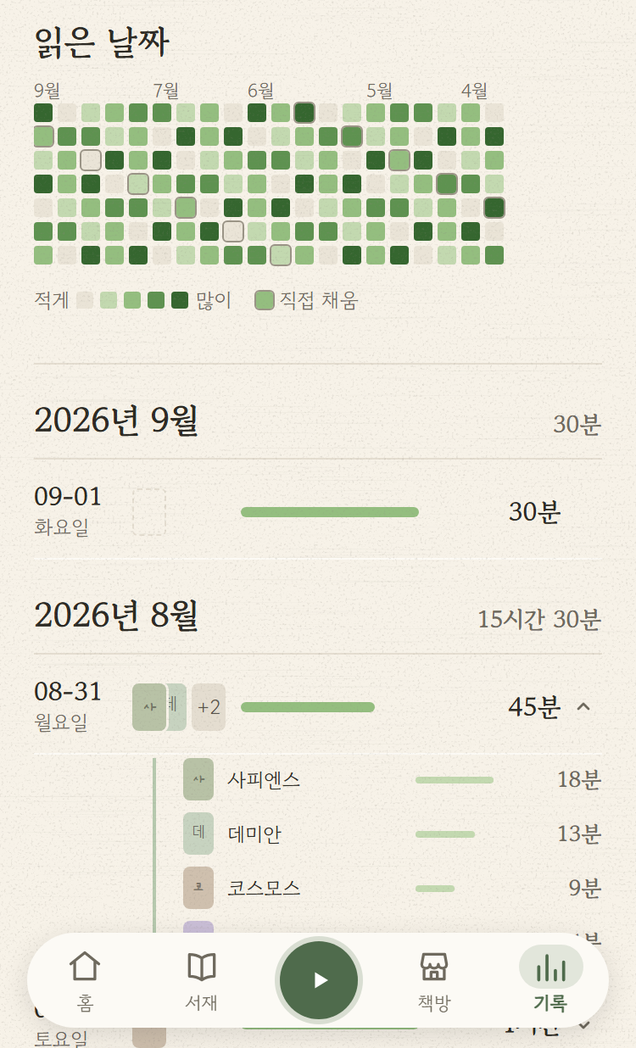
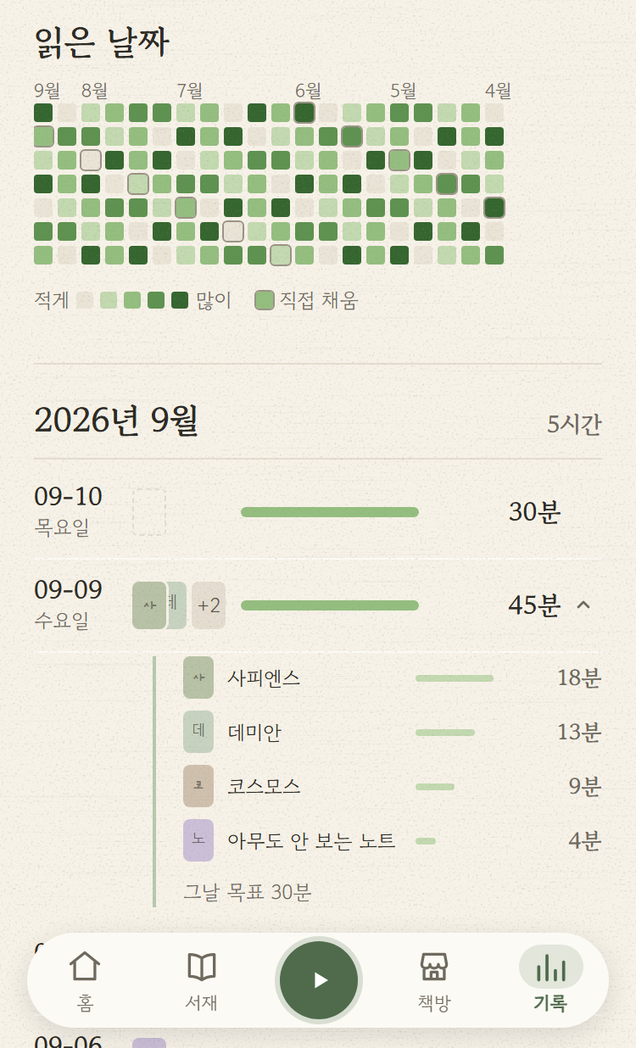
docs(미니앱): 스토어 스크린샷 재촬영 — 04(+10)만, 기록 막대 「그날 목표」 기준 반영 (#1081)
#1080으로 기록의 하루 막대 기준이 「그 달 최대」→「그날 목표」가 됐고 펼침 영역
맨 아래에 「그날 목표 30분」 줄이 섰다. 펼친 첫 날을 담는 04와 그걸 얹은 10만 갱신.
08도 diff가 났지만 달력의 오늘 기준 이동뿐이라 되돌렸다. 나머지 6장은 바이트째 동일.

번들 20260910-145(01a088cc) 검수 요청과 같은 날의 점검 결과다.

Session-Model: claude-fable-5-1

diff --git a/claude-docs/changelog.md b/claude-docs/changelog.md
@@ -921,3 +921,4 @@
 | 2026-09-09 | **feat(공부): 백지복습 본문을 노션식 편집기로 — Tiptap 3 도입, 저장은 마크다운** — `textarea` 하나였던 본문을 WYSIWYG 편집기로 바꿨다(사용자 결정: 툴바 **와** 슬래시 메뉴 둘 다 · Tab 들여쓰기 필수 · 마크다운 문법을 배우지 않아도 되게). 저장 형식은 **마크다운 문자열**이라 서버·DB·미니앱·AI 프롬프트가 전부 무변경이고, 되돌리려면 컴포넌트만 textarea로 되돌리면 된다. 📌 **옛 평문 글이 이 작업의 진짜 위험이었다** — 파서에 `breaks: true`가 없으면 줄바꿈 하나로 갈라 둔 옛 글이 열 때 통째로 한 문단이 된다(변환 스크립트 대신 파서 옵션 한 줄로 끝났다). 로컬 실측: 평문 「줄1 / 줄2 / 빈 줄 / 문단2」를 API로 심어 두고 열었더니 `<p>줄1<br>줄2</p><p>문단2</p>`로 3줄이 살았고, 저장을 안 누르면 서버 값도 그대로였다. ⚠ **직렬화가 저장값에 남기던 것 둘을 경계에서 턴다**(`cleanMarkdown` 한 함수가 그 자리다) — ⓐ `trailingNode`가 목록·구분선 뒤에 붙이는 빈 문단이 `&nbsp;` 한 줄로 나와 `trimEnd`로는 하나도 안 털렸다(그 줄을 지우고 연속 빈 줄을 하나로 접는다) ⓑ 글자로 친 `>`·`&`가 `&gt;`·`&amp;`로 이스케이프돼 DB·AI 프롬프트·8000자 예산에 그대로 실렸다(실측 `a > b` → `a &gt; b`, `AT&T` → `AT&amp;T`). 되돌리기는 **뜻이 안 바뀌는 것만**이다 — 줄 시작의 `&gt;`는 남기고(되돌리면 다음에 열 때 인용 블록으로 승격된다), `&lt;`는 손대지 않으며(`a <b> c`가 인라인 HTML로 먹힌다), `&amp;`는 마지막에 푼다(사용자가 글자로 친 `&amp;gt;`가 `>`까지 가지 않게). 밖으로 내보내는 길과 비교하는 길이 **같은 함수**를 써야 한다 — 한쪽만 다듬으면 매 입력마다 문서를 갈아치워 커서가 튄다. `maxlength`가 사라지므로 8000자 상한은 화면(`bodyBudget`)+서버 400 두 겹으로 다시 세웠고, 줄노트 배경은 걷었다(제목·목록이 들어오면서 28px 격자와 글줄이 어긋난다). 📍 **슬래시 팝업 좌표는 실 브라우저가 아니면 못 잡을 자리였다** — 하니스(jsdom)에는 레이아웃이 없어 늘 초록이지만, 로컬에서 캐럿을 화면 아래쪽에 두고 열어 보니 팝업이 **화면 밖으로 82px** 나갔다(좌표를 잰 상자와 먹는 상자가 달라 툴바 높이만큼 밀리기도 했다). 뷰포트 기준으로 계산해 아래가 모자라면 위로 뒤집는 `slashPosition`(+ CSS `position: fixed`)으로 고치고 데스크톱 1280×800·폰 375×812 양쪽에서 재측정했다. RED → GREEN, 새 테스트 49건(pure 27 · 편집기 19 · 패널 2 · 프롬프트 1) · 프론트 전체 **646건** · 돌연변이 7종(`breaks` 끄기 · 상한 경계 넓히기 · 목록 밖 Tab 무력화 · 프롬프트에서 마크다운 문법 벗기기 · 줄 시작 `&gt;` 보호 제거 · `&amp;`를 먼저 풀기 · `&nbsp;` 줄 제거 삭제)이 전부 겨눈 테스트에 사살됐다. ⚠ **`&amp;`를 먼저 풀기는 처음에 살아남았다** — 테스트 입력이 줄 시작이라 인용 보호가 대신 막고 있었다(같은 초록이 두 가지 이유로 나던 자리다). 글 가운데(`결론 &amp;gt; 정리`)로 옮겨 다시 죽였다. ⚠ **번들이 커진다 — 머지 전 사용자 판단이 필요한 자리다**: study.js 110,727 → 591,857 bytes(gzip 40,326 → 194,074), **홈 대시보드도 같은 패널을 실어** dashboard.js 139,818 → 620,706(gzip 48,785 → 202,361). 설계의 「500KB raw 초과면 보고」 선을 넘었고 대시보드 섬은 설계가 아예 세지 않았다. ⚠ **한글 IME 조합 중 입력은 도구로 재현하지 못했다**(ABANDON: U-1 — 어떤 브라우저 도구도 OS IME를 구동하지 못한다). 🔁 **리뷰 반영 4건** — ⓐ 위 엔티티·빈 문단 둘(저장값이 곧 DB·프롬프트라 가장 무거운 자리였다) ⓑ **슬래시 팝업이 떠 있을 때 Tab이 선택을 확정**한다 — 확장 주석은 「팝업이 Tab을 먼저 먹는다」였는데 컴포넌트가 Tab을 안 봐서, 고르려던 손이 `- /제`라는 목록을 만들었다(리뷰 실측, 지금은 회귀 테스트가 겨눈다) ⓒ 팝업 접근성 — `role="listbox"`/`option`·`aria-selected`와 글 상자의 `aria-expanded`, 화살표로 고른 항목이 `max-height: 220px` 밖이면 `scrollIntoView({ block: 'nearest' })` ⓓ **죽은 계측기 2건** — 패널 테스트가 `.study-recall-body`로 재고 있었는데 그 클래스는 편집기 도입 뒤 **대역(mock)에만** 남아 있었다. 스텁·실물 양쪽에 있는 `data-testid`로 바꾸고 스텁의 클래스는 걷었다(대역에만 있는 셀렉터는 실물이 사라져도 초록이다). |
 | 2026-09-09 | **docs(함정): T-235 보강·정정 — 「테스트가 9분」은 재현되지 않았고 병렬화는 답이 아니었다** — 커밋 게이트 8분 차단을 조사하며 「스위트가 예산을 추월했다」고 **1회 측정으로 단정**했는데, 병렬 실행(`maxParallelForks=4`)으로 줄여 보려 대조군을 세우자 **같은 스위트가 순차로 3분 23초**로 나왔다. 병렬 4-fork는 3분 28초 — 차이가 없다(CPU 시간 합 728초가 벽시계 208초에 겹쳐 들었으니 fork는 실제로 일했다. 병목이 CPU가 아니라는 뜻이다). 그 사이 다른 세션이 지운 83건(3.6%)으로는 2.7배가 설명되지 않고 컨텍스트 수도 31로 같아 **9분의 원인은 미확정으로 남긴다**. `build.gradle` 변경은 폐기했다 — 효과 없는 설정을 남기면 다음 사람이 「이미 최적화됨」으로 읽는다. 곁다리도 함께 적었다: 게이트 자가복구의 `gradlew --stop`은 **머신 전역**이라 다른 세션의 정상 빌드를 끊고(워크트리 4개), 그렇게 죽은 71초짜리 실행이 하마터면 병렬화 성과로 보고될 뻔했다(`BUILD SUCCESSFUL` 유무로 갈랐다). 교훈은 하나 — **성능 원인은 재현부터 시킨다**(같은 조건 2회 + 대조군). 게이트 상한 상향은 당분간 불필요하다(3분 23초 < 8분). |
 | 2026-09-09 | **fix(미니앱): 기록 하루 막대의 기준을 「그 달 최대」에서 「그날 목표」로 + 펼침에 그날 목표 한 줄** — 사용자 제보: 하루 목표를 채운 날인데 막대가 안 찼다. 원인은 기준이었다 — `DayRow`가 `monthMax`(그 달 `totalSeconds` 최대)로 재고 있어, 같은 달에 3시간 읽은 날이 하나만 있어도 1시간 목표를 채운 날은 33%로 납작해졌다. 막대가 「내가 오늘 할 일을 했나」가 아니라 「그 달 누구보다 길었나」를 답하고 있었던 것. 서버가 `/api/history` 각 날에 **그 날짜에 유효했던 하루 목표**(`goalSeconds`)를 실어 준다 — 리졸버는 **잔디가 쓰던 것을 그대로** 쓴다(`ReadingContributionService.goalSchedule`을 공개 추출해 재사용). 두 화면이 같은 답을 해야 막대 100%와 잔디 lv4가 같은 날에 맞고, 목표를 올려도 옛 목표를 채운 과거 날이 소급해 짧아지지 않는다(N-059 소급 함정의 막대 판). `monthlyHistory(User)`는 `monthlyHistory(User, ToLongFunction<LocalDate>)`로 바꿔 죽은 오버로드를 남기지 않았고, 잔디·부채가 쓰는 `dailyHistory`는 0(미산정)이다 — 그쪽은 목표를 스스로 해석한다. 미니앱은 `barPercent(totalSeconds, goalSeconds)`(100% 클램프)로 그리고, **기준 0(목표 없음)은 읽은 날을 가득**으로 친다 — 잔디 `levelFor`가 목표 0인 날을 lv4로 치는 것과 같은 규칙이고 0으로 나눠 `width: NaN%`가 되는 길도 함께 막힌다. 펼침 영역 맨 아래에 「그날 목표 1시간」/「그날 목표 없음」 한 줄을 둬 무엇에 견줘 쟀는지 밝힌다(접힌 줄에는 안 적는다 — 한 줄 요약이 길어지면 시간·손잡이를 밀어낸다). 목 모드 실측으로 기준이 실제로 갈리는 것을 확인했다: 최근 3주(목표 30분) 15분=50%·30분/45분/1시간=100%, 3주 이전(목표 1시간) 15분=25%·30분=50%·45분=75% — **같은 「30분」이 그날 목표에 따라 다른 길이로 그려진다**. RED → GREEN, 서버 6건(목표 변경 전날/당일/다음날 · 타임존 일자로 묻기 · `dailyHistory` 미산정 계약 · `goalSchedule` 조립 · `/api/history` jsonPath · 날마다 다른 목표가 실리는지) + 미니앱 순증 11건(그 밖에 옛 기준을 말하던 3건은 교체·개명), 전체 서버 2213 · 미니앱 1451 초록. 돌연변이 6종(목표 일자 하루 밀기 · 컨트롤러 배선 0 · 이력 무시 · `barPercent` 0-규칙 되돌리기 · 목표 문구 삭제 · 펼침 조건 제거)이 전부 겨눈 테스트에 사살됐다. ⚠ **그중 하나가 죽은 계측기를 잡아냈다** — 막대 폭을 `toContain('width:100%')`로 재고 있었는데 **행 격자도 `width:100%`**라 막대를 안 그려도 늘 초록이었다. 높이 6px을 앵커로 붙여 다시 죽였다. 공부 기록 탭은 범위 밖이다 — 공부 목표(`users.study_daily_goal_seconds`)는 단일 컬럼이라 「그날 목표」가 정의되지 않는다(V79 설계 의도). ⚠ **배포는 서버가 먼저다**(main 머지 → `deploy.yml` 자동 → 그 뒤 미니앱 번들): 옛 앱 + 새 서버는 모르는 필드를 무시해 무해하지만, 새 앱 + 옛 서버는 전 날짜가 「목표 없음」이 돼 막대가 죄다 가득 찬다. 웹 history 섬은 이 필드를 안 읽어 무영향(`static/history/history.js` 재빌드 결과 바이트 동일). 🔁 **리뷰 반영 5건(차단 0 · 권고 6 중 5 + 보고 수치 정정)** — ⓐ **핵심 불변식에 계측기가 없었다** — 컨트롤러의 `schedule::goalFor`를 「현재 목표 하나」(`d -> schedule.goalFor(now)`)로 갈아치워도 서버 전체가 초록이었다. 픽스처가 오늘 하루뿐이라 **이력 해석과 현재 목표가 같은 값을 돌려주고 있었다**. 이틀 전 20분 → 오늘 25분으로 갈라 둔 통합 테스트를 신설해 그 돌연변이를 죽였다(달 경계를 넘어도 깨지지 않게 인덱스가 아니라 날짜로 집는다). ⓑ **`barPercent`를 반올림에서 내림으로** — 3588초/3600초가 100%로 그려지는데 잔디 `levelFor`는 `seconds < goal`이라 같은 날을 lv3으로 쳤다. 위에서 「막대 100% ⇔ 잔디 lv4」라 적어 둔 등가가 실은 거짓이었던 것. 내림으로 두면 참이 된다. ⓒ **`?? 0` 폴백에도 계측기가 없었다** — `?? 3_600`으로 바꿔도 미니앱 전체가 초록이라, 필드가 아예 없는 날을 렌더해 막대가 가득 차는지 단언하는 테스트를 붙였다. ⓓ **주석 4곳이 거짓이었다** — 선택 필드의 근거를 「옛 `CACHE_HISTORY`가 첫 렌더에 온다」로 적었는데, 그 캐시는 모듈 메모리 `Map`이라 배포를 넘겨 살아남을 길이 없다. 진짜 근거인 「롤링 배포 중 옛 서버 응답」으로 고쳤다(선택 필드로 둔 결정 자체는 그대로 유효하다). ⓔ **죽은 단언이 하나 더 있었다** — 책 막대 100%도 `toContain('width:100%')`로 재고 있어 위 ⚠와 같은 이유(행 격자)로 늘 초록이었다. 높이 4px 앵커를 붙여 죽였다. |
+| 2026-09-10 | **docs(미니앱): 스토어 스크린샷 재촬영 — 04(+10)만, 기록 막대 「그날 목표」 기준 반영** — 「기록 하루 막대의 기준을 그날 목표로」 배포(번들 20260910-145 검수 요청)에 맞춰 심사용 컷을 점검했다. 펼친 첫 날을 담는 04에 새 줄 「그날 목표 30분」과 목표를 채운 날의 가득 찬 막대가 없어 04와 그걸 얹은 10만 재촬영했다. 08도 diff가 났지만 달력의 오늘 기준 이동뿐이라 되돌렸다. 나머지 6장은 바이트째 동일 — 그 화면들이 안 바뀌었다는 증거. |

diff --git a/miniapp/screenshots/README.md b/miniapp/screenshots/README.md
@@ -44,6 +44,11 @@
 바뀐 컷은 02뿐이라 그것과 그걸 얹은 10만 갱신했다. 04·08도 diff가 났지만 오늘 기준 이동(잔디·달력)뿐이라
 되돌렸다(09-02 항목과 같은 판단).
 
+**2026-09-10 재촬영 — 04(+10)만**: #1080으로 기록의 하루 막대 기준이 「그 달 최대」→「그날 목표」가 됐고,
+펼침 영역 맨 아래에 「그날 목표 30분」 한 줄이 섰다. 펼친 첫 날을 담는 컷은 04뿐이라 그것과 그걸 얹은 10만
+갱신했다(목표를 채운 날의 막대가 가득 찬 것과 새 줄이 그림에 있다). 08도 diff가 났지만 달력의 오늘 기준
+이동뿐이라 되돌렸다(09-09 항목과 같은 판단).
+
 ## 재촬영 — `shoot.mjs` 한 방
 
 ```
